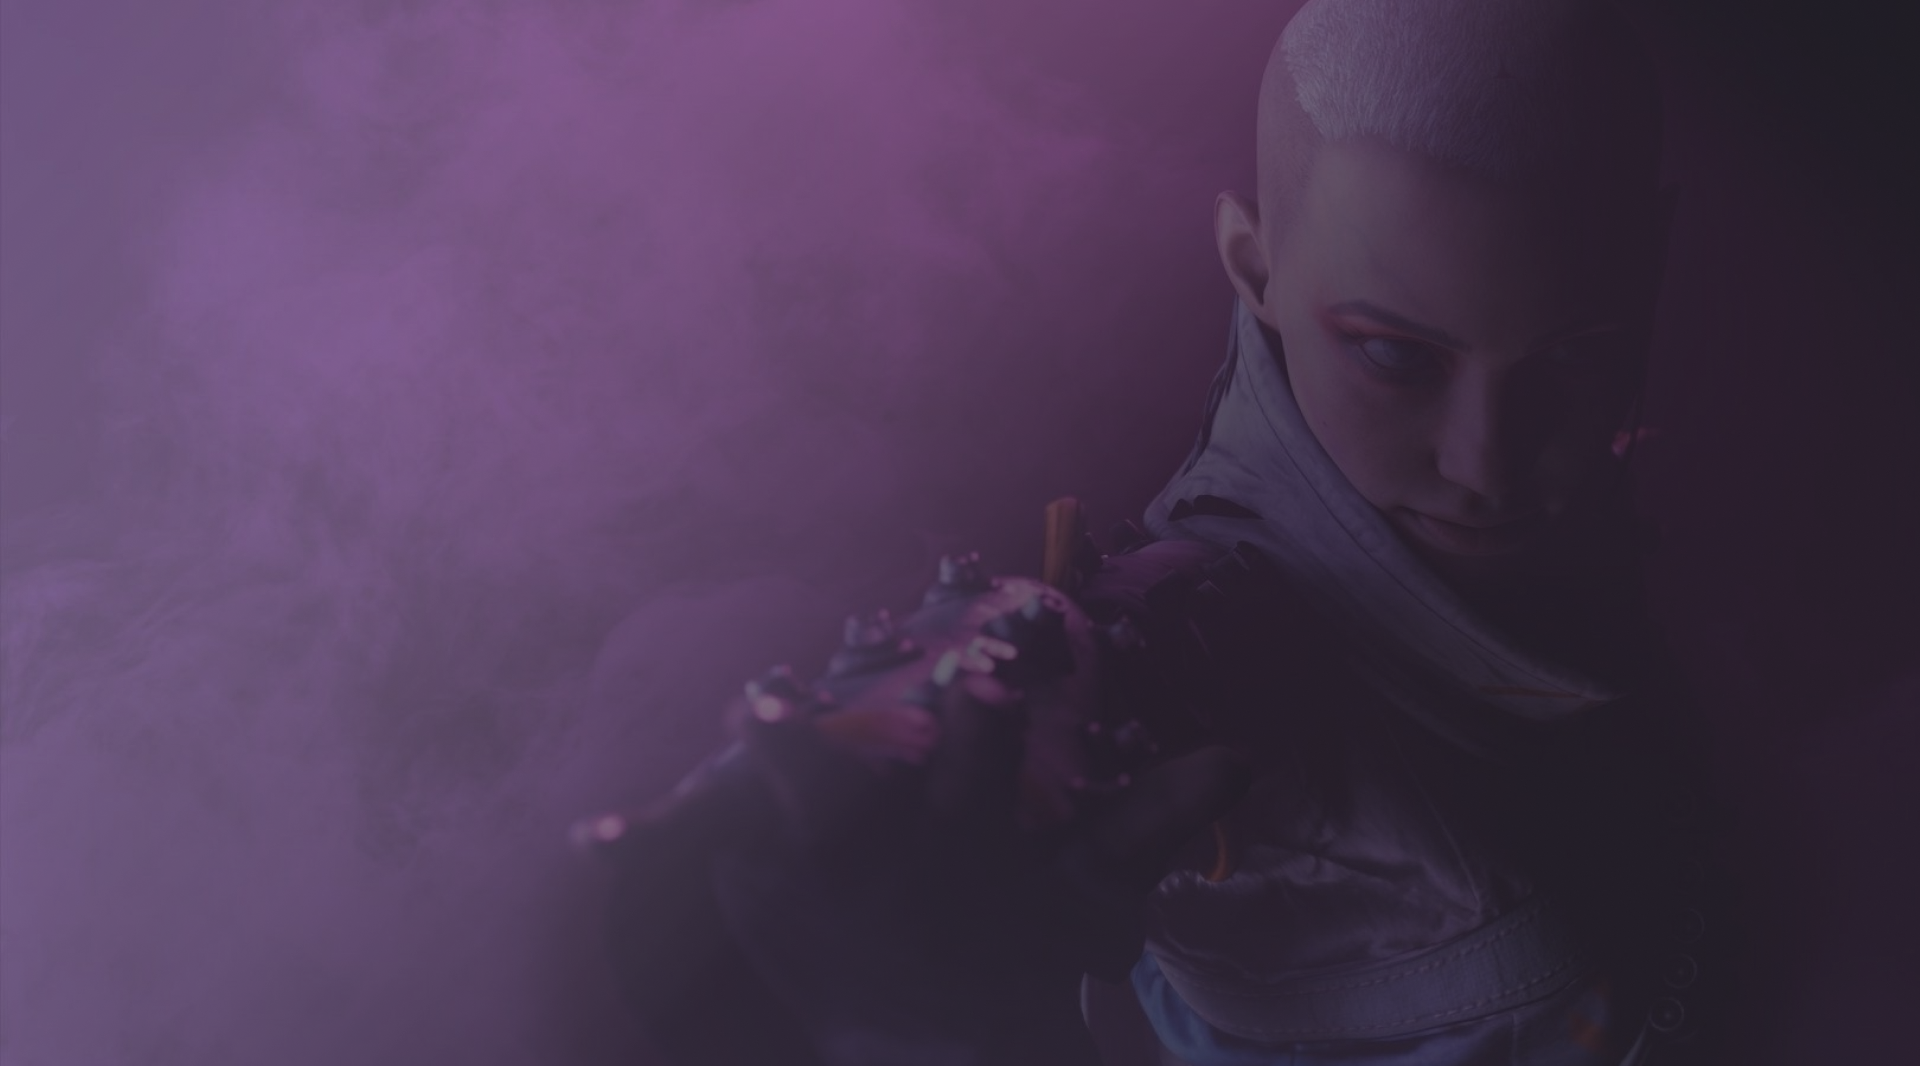
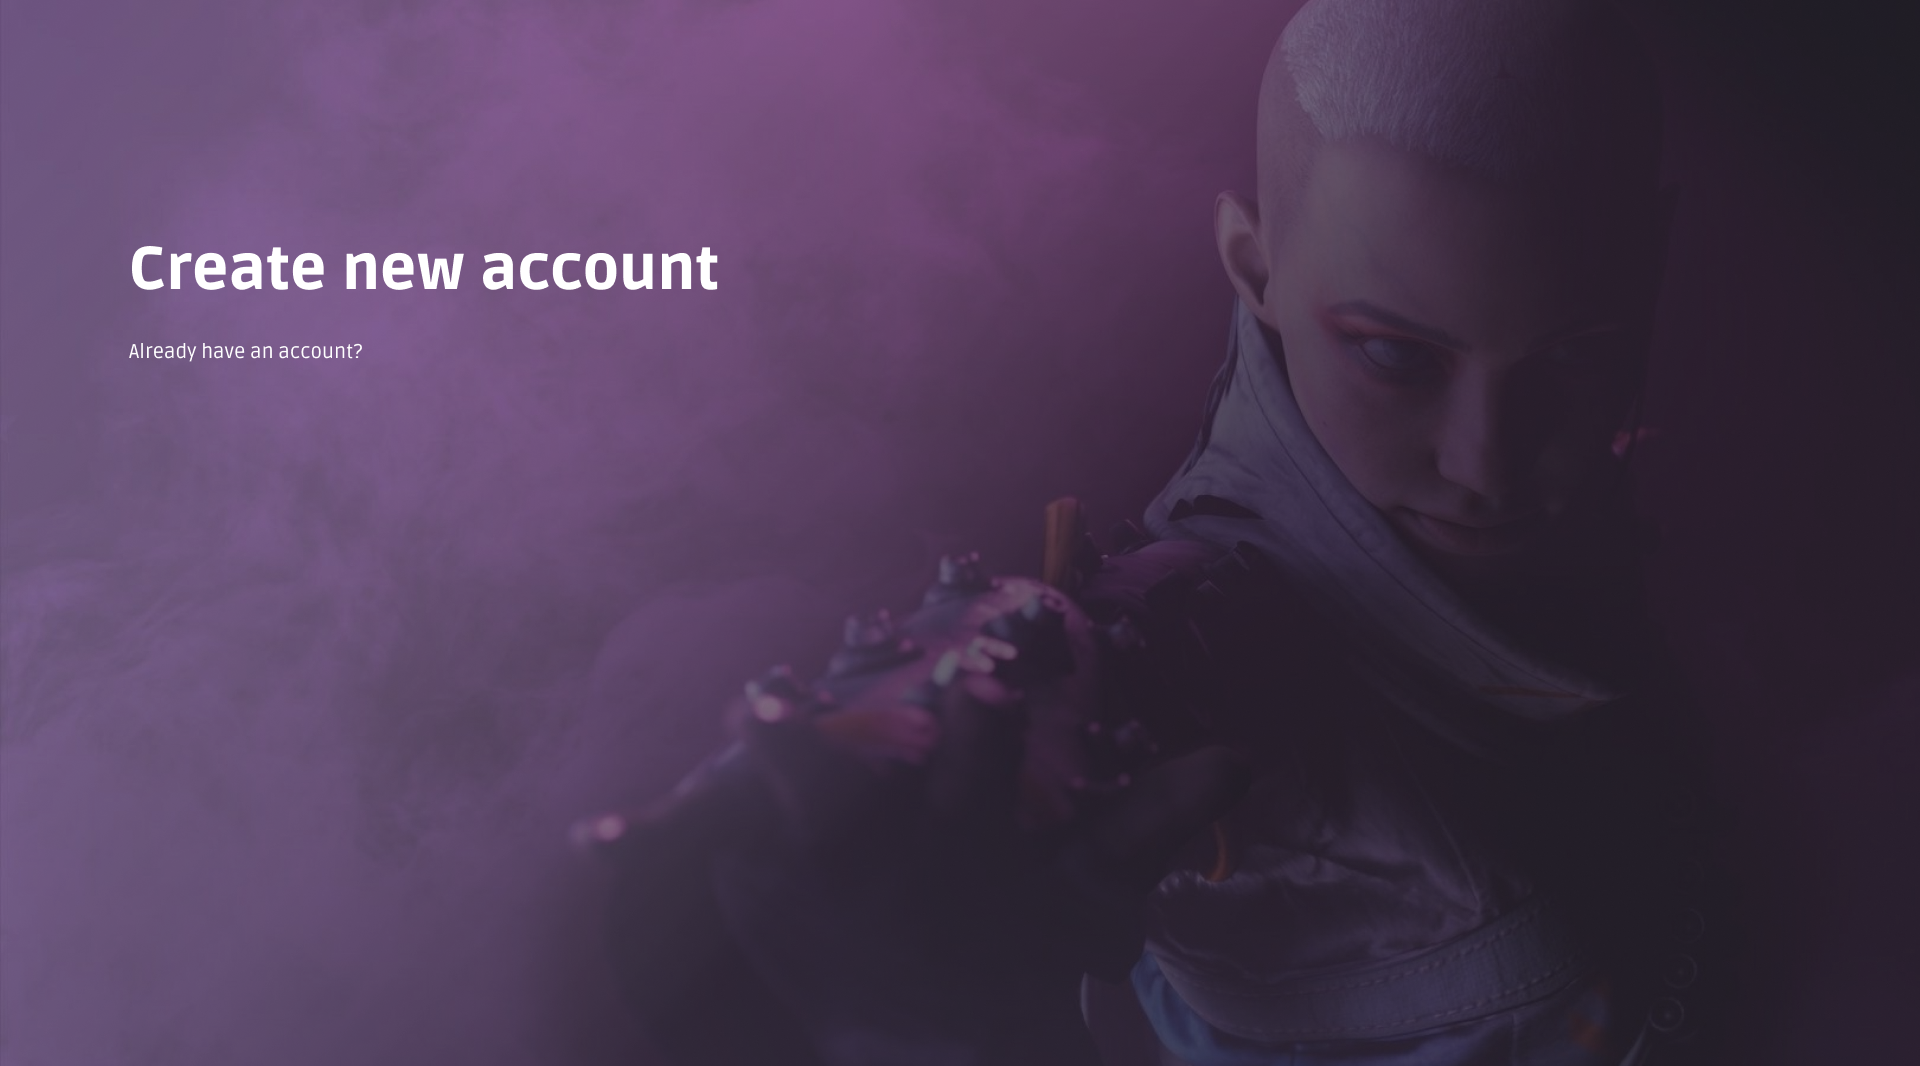
up regis

Changed region(s): [[0.0625, 0.2167, 0.375, 0.2786], [0.0625, 0.3096, 0.1875, 0.3405]]

diff --git a/frontend/src/layouts/style-regis.css b/frontend/src/layouts/style-regis.css
@@ -14,43 +14,12 @@
     background: #0C0C14;
 }
 
-.text-create{
-    position: absolute;
-    width: 591px;
-    height: 73px;
-    left: 35px;
-    top: 20px;
-
-    font-family: 'Decorative';
-    font-style: normal;
-    font-weight: 900;
-    font-size: 60px;
-    line-height: 73px;
-
-    color:#FFFFFF
-}
-
-.text-already{
-    width: 234px;
-    height: 24px;
-    left: 100px;
-    top: 500px;
-
-    font-family: "Ruda-Black.ttf";
-    font-style: normal;
-    font-weight: 400;
-    font-size: 20px;
-    line-height: 24px;
-
-    color: #FFFFFF;
-}
-
 .text-login{
     position: absolute;
     width: 104px;
     height: 24px;
-    left: 300px;
-    top: 100px;
+    left: 270px;
+    top: 164px;
 
     font-family: 'Ruda';
     font-style: normal;
@@ -75,54 +44,57 @@
     position: absolute;
     width: 195px;
     height: 60px;
-    left: 50px;
-    top: 170px;
+    left: 40px;
+    top: 230px;
+
 }
 
 .last-name{
     position: absolute;
     width: 195px;
     height: 60px;
-    left: 270px;
-    top: 170px;
+    left: 260px;
+    top: 230px;
 }
 
 .input-username{
     position: absolute;
     width: 415px;
     height: 60px;
-    left: 50px;
-    top: 230px;
+    left: 40px;
+    top: 290px;
 }
 
 .input-email{
     position: absolute;
     width: 415px;
     height: 60px;
-    left: 50px;
-    top: 290px;
+    left: 40px;
+    top: 350px;
 }
 
 .input-password{
     position: absolute;
     width: 415px;
     height: 60px;
-    left: 50px;
-    top: 350px;
+    left: 40px;
+    top: 410px;
 }
 
 .confirm-password{
     position: absolute;
     width: 415px;
     height: 60px;
-    left: 50px;
-    top: 410px;
+    left: 40px;
+    top: 470px;
 }
 
 .button-create{
     position: absolute;
     width: 195px;
     height: 60px;
-    left: 50px;
-    top: 470px;
+    left: 40px;
+    top: 550px;
+
+    background-color: #473153;
 }

diff --git a/frontend/src/features/registration/registration.js b/frontend/src/features/registration/registration.js
@@ -38,16 +38,11 @@ const Registration = () => {
   return (
     <>
       <Col lg="5" md="7">
-        <Card className="card-regis">
-          <CardHeader className="bg-transparent pb-5">
-            <div>
-              <h1 className="text-create">Create your Account</h1>
-              <h1 className="text-already">Already have an account?</h1>
+        <Card className="card-regis">                            
+          <CardBody className="px-lg-5 py-lg-5">
+            <div>            
               <h1 className="text-login">Login here</h1>
             </div>
-            <div className="text-center"></div>
-          </CardHeader>
-          <CardBody className="px-lg-5 py-lg-5">
             <Form role="form">
               <FormGroup>
                 <InputGroup className="first-name">
@@ -104,7 +99,7 @@ const Registration = () => {
               </FormGroup>
             
               <div className="text-center">
-                <Button className="button-create" color="#473153" type="button">
+                <Button className="button-create" type="button">
                   Create account
                 </Button>
               </div>
